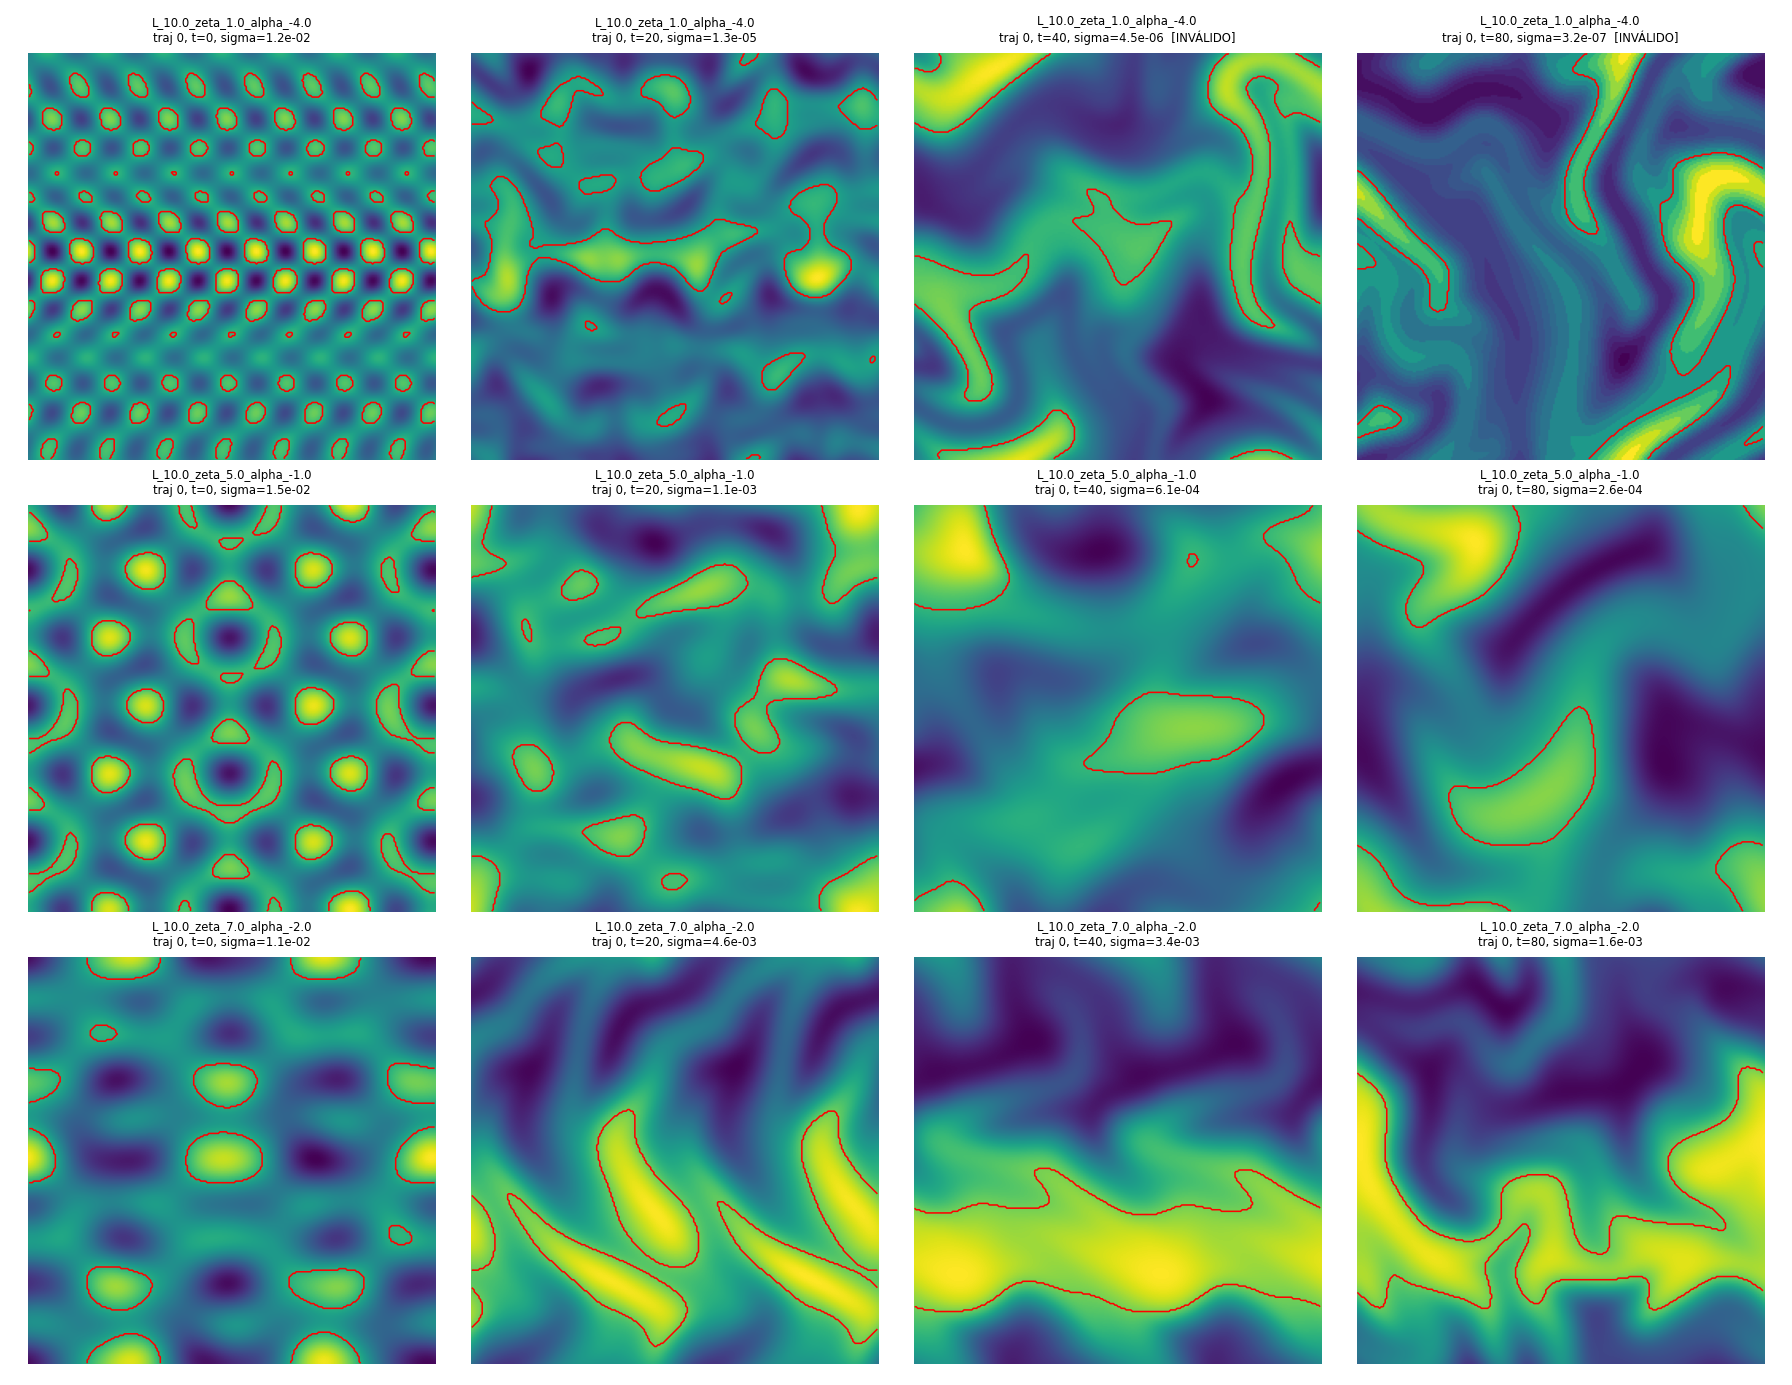
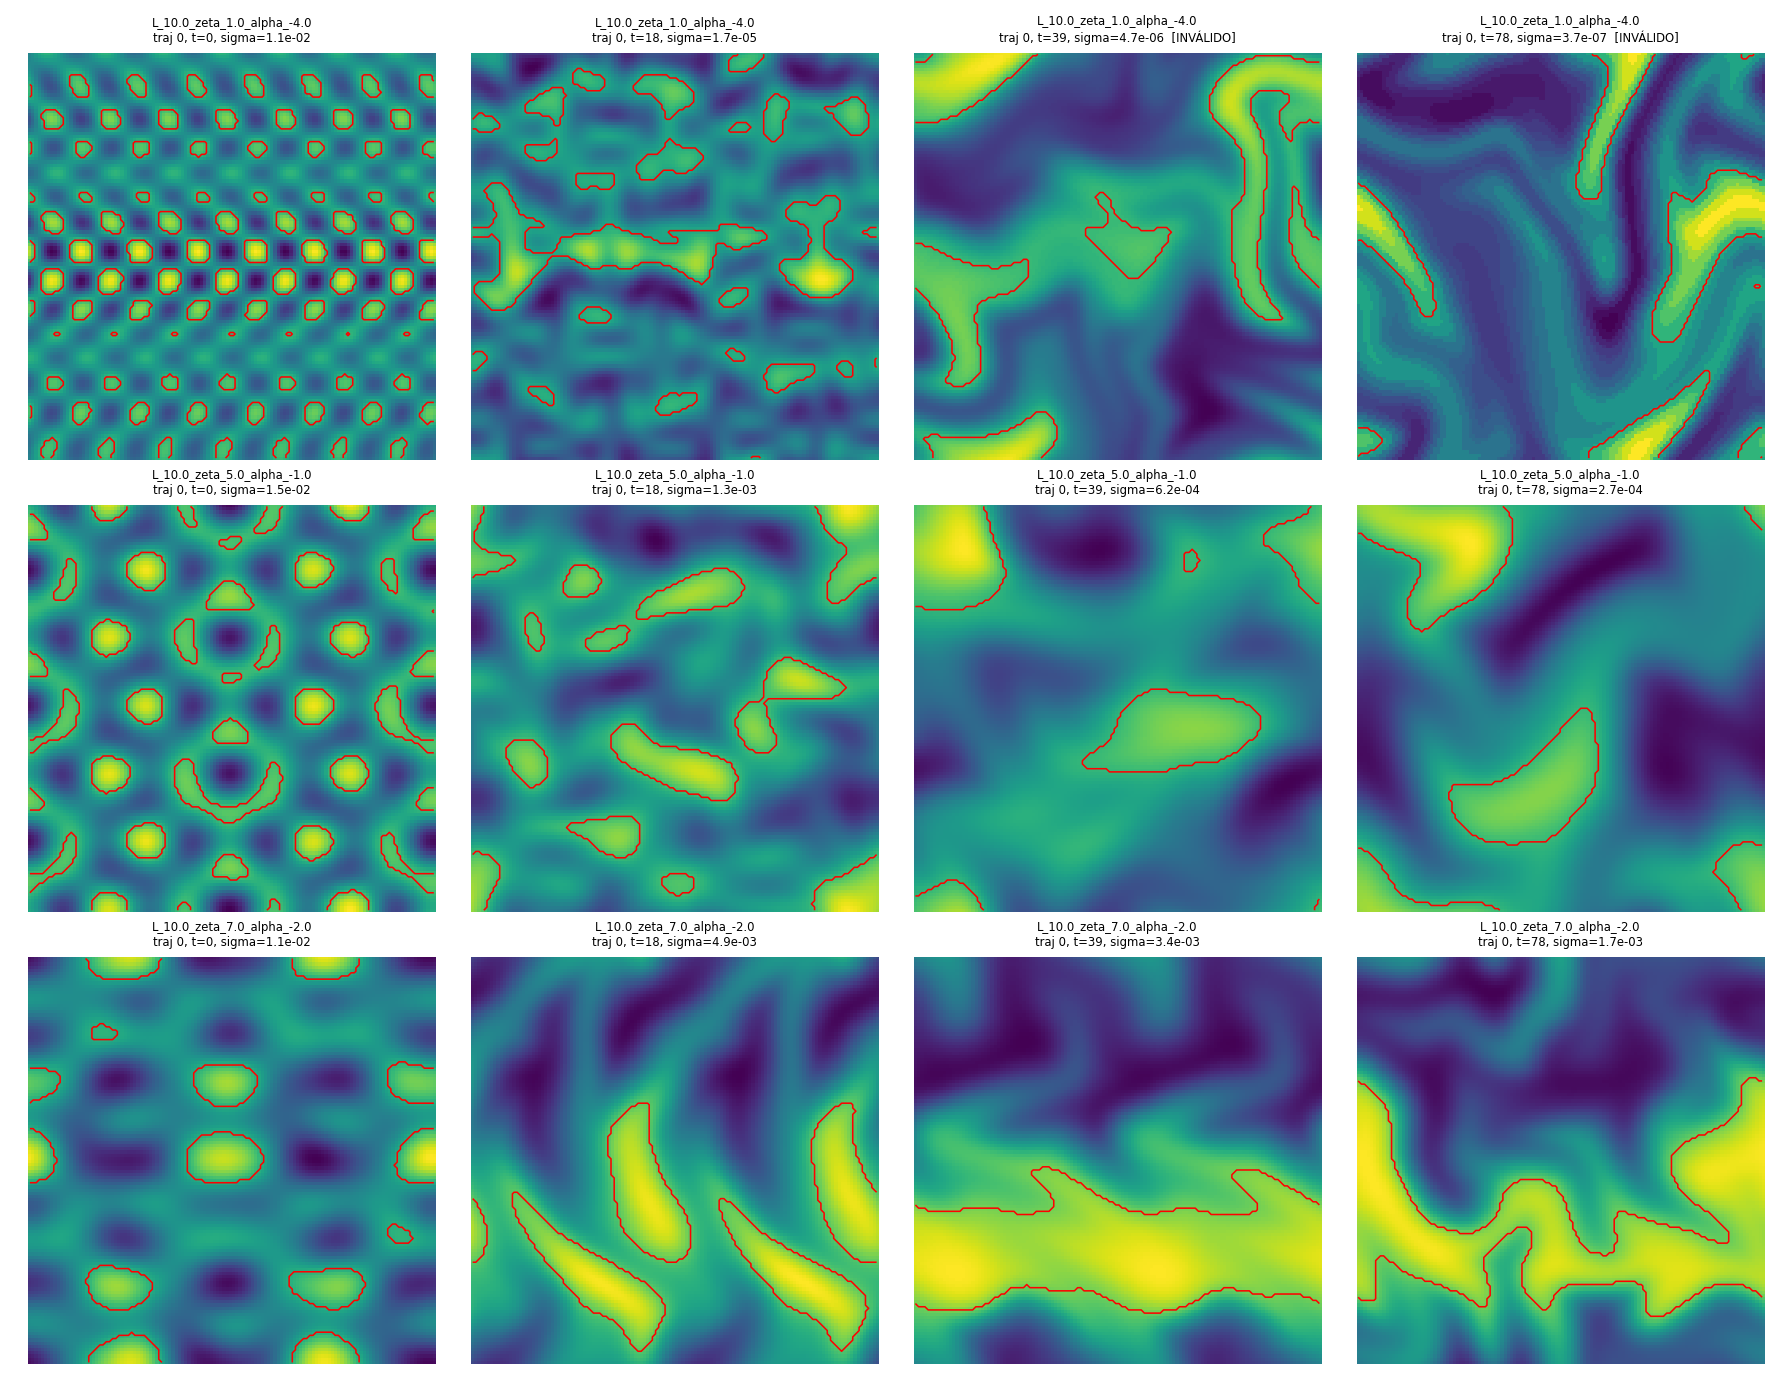
Ground Truth atualizado para o padrão em 128 px, validado contra 256 px
ground_truth.py gera as máscaras a partir da concentração reduzida para 128 px. Validação no split valid.

diff --git a/ground_truth.py b/ground_truth.py
@@ -1,125 +1,218 @@
 """
-Etapa 2b - Geração do Ground Truth do active_matter.
+Etapa 5 - Ground Truth em 128 px (versão 2), a partir dos dados processados por prepare_dataset.py.
 
-Critério (relativo por quadro):
+Critério (igual à versão 1, agora aplicado à concentração JÁ REDUZIDA para 128 x 128):
     d(x,y,t) = c(x,y,t) - 1
-    M(x,y,t) = 1  se  d(x,y,t) > k * sigma(t)      (sigma(t) = desvio padrão de d no quadro t)
-    M(x,y,t) = 0  caso contrário
+    M(x,y,t) = 1  se  d(x,y,t) > k * sigma(t)     (sigma(t) = desvio padrão de d no quadro t)
+Quadros com sigma(t) < sigma_floor são marcados como inválidos (valid = False) e devem ser
+excluídos do treino e da avaliação.
 
-Quadros com sigma(t) < sigma_floor são marcados como inválidos (valid = False): neles a
-flutuação de concentração está próxima da resolução numérica de float32 e a máscara
-não tem significado físico. Esses quadros devem ser excluídos do treino e da avaliação.
-
-A concentração é usada SOMENTE aqui. Ela não entra como canal de entrada das redes.
+Verificação opcional (--compare-raw): para os splits cujos arquivos originais de 256 x 256 existem
+localmente (normalmente o valid), gera a máscara em 256 px, reduz com nearest-neighbor e compara com a
+máscara de 128 px (IoU, Dice, concordância de pixels, razão entre sigmas, flags de validade). Isso é a
+validação quantitativa da escolha "gerar o GT depois da redução" em vez de reduzir a máscara.
 
 Uso:
-    python ground_truth.py --root ./data/raw/datasets/active_matter/data/valid \
-                           --out  ./data/ground_truth --k 1.0 --sigma-floor 1e-5
+    python ground_truth.py --splits valid --compare-raw ./data/raw/datasets/active_matter/data
+    python ground_truth.py --splits valid test train        (depois que test e train estiverem processados)
 
-Saída: <out>/<split>/<mesmo nome do arquivo>.hdf5 com
-    mask   (N, T, H, W) uint8
-    sigma  (N, T)       float32
-    valid  (N, T)       bool
-e atributos k, sigma_floor, criterion, source_file.
-Também grava <out>/<split>_gt_summary.csv e <out>/<split>_gt_validation.png.
+Saídas (em --out, padrão data/ground_truth):
+    <split>/<mesmo nome>.hdf5    mask (N,Ts,h,w) uint8, sigma (N,Ts), valid (N,Ts), time_index (Ts,)
+    <split>_gt_summary.csv       resumo por trajetória
+    <split>_gt_validation.png    figura de validação
+    <split>_gt_resolution_check.csv   (se --compare-raw) comparação com 256 px
+    ground_truth_manifest.json   parâmetros e contagens (para congelar e comparar entre computadores)
+ATENÇÃO: sobrescreve as máscaras da versão 1 (256 px) com o mesmo nome de arquivo.
 """
 import argparse
 import csv
+import json
+from datetime import datetime
 from pathlib import Path
 
 import h5py
 import matplotlib.pyplot as plt
 import numpy as np
 
+VERSION = "v2_128px"
+
 
 def make_mask(c, k, sigma_floor):
-    """c: (N, T, H, W) -> mask (N,T,H,W) uint8, sigma (N,T), valid (N,T)."""
+    """c: (N, Ts, h, w) -> mask (N,Ts,h,w) uint8, sigma (N,Ts) float32, valid (N,Ts) bool."""
     d = c.astype(np.float64) - 1.0
-    N, T = d.shape[:2]
-    sigma = d.reshape(N, T, -1).std(axis=2)                    # (N, T)
+    N, Ts = d.shape[:2]
+    sigma = d.reshape(N, Ts, -1).std(axis=2)
     mask = (d > k * sigma[:, :, None, None]).astype(np.uint8)
     valid = sigma >= sigma_floor
     return mask, sigma.astype(np.float32), valid
 
 
-def main(root, out, k, sigma_floor):
-    files = sorted(root.rglob("*.hdf5")) + sorted(root.rglob("*.h5"))
-    if not files:
-        raise FileNotFoundError(f"Nenhum HDF5 em {root}")
-    split = root.name
-    out_dir = out / split
-    out_dir.mkdir(parents=True, exist_ok=True)
+def compare_with_raw(raw_path, t_idx, factor, mask128, sigma128, valid128, k, sigma_floor):
+    """Compara a máscara de 128 px com a de 256 px reduzida por nearest-neighbor."""
+    iou, dice, agree, ratio, mism, nfr = [], [], [], [], 0, 0
+    with h5py.File(raw_path, "r") as f:
+        ds = f["t0_fields/concentration"]
+        for n in range(mask128.shape[0]):
+            c = ds[n, t_idx.tolist()]                              # (Ts, 256, 256)
+            d = c.astype(np.float64) - 1.0
+            s = d.reshape(len(t_idx), -1).std(axis=1)
+            m256 = d > k * s[:, None, None]
+            nn = m256[:, ::factor, ::factor]                       # nearest-neighbor
+            valid256 = s >= sigma_floor
+            mism += int((valid256 != valid128[n]).sum())
+            nfr += len(t_idx)
+            for t in np.where(valid256 & valid128[n])[0]:
+                g, p = mask128[n, t].astype(bool), nn[t]
+                inter, union = (g & p).sum(), (g | p).sum()
+                if union == 0:
+                    continue
+                iou.append(inter / union)
+                dice.append(2 * inter / max(g.sum() + p.sum(), 1))
+                agree.append((g == p).mean())
+                ratio.append(sigma128[n, t] / s[t])
+    return {k_: np.array(v) for k_, v in dict(iou=iou, dice=dice, agree=agree, ratio=ratio).items()}, mism, nfr
 
-    rows, examples = [], []
-    for fp in files:
-        with h5py.File(fp, "r") as f:
-            c = f["t0_fields/concentration"][...]
-            alpha, zeta, L = float(f.attrs["alpha"]), float(f.attrs["zeta"]), float(f.attrs["L"])
-        mask, sigma, valid = make_mask(c, k, sigma_floor)
-        N, T = mask.shape[:2]
 
-        with h5py.File(out_dir / fp.name, "w") as g:
-            g.create_dataset("mask", data=mask, compression="gzip", compression_opts=4)
-            g.create_dataset("sigma", data=sigma)
-            g.create_dataset("valid", data=valid)
-            g.attrs.update(k=k, sigma_floor=sigma_floor, source_file=fp.name,
-                           criterion="mask = (c - 1) > k * std_frame(c - 1)")
-
-        for n in range(N):
-            frac = mask[n].reshape(T, -1).mean(axis=1)
-            v = valid[n]
-            rows.append({
-                "file": fp.name, "traj": n, "L": L, "zeta": zeta, "alpha": alpha,
-                "frames_total": T, "frames_valid": int(v.sum()), "frames_excluded": int((~v).sum()),
-                "first_invalid_t": int(np.argmax(~v)) if (~v).any() else -1,
-                "pos_frac_mean_valid": float(frac[v].mean()) if v.any() else float("nan"),
-                "pos_frac_min_valid": float(frac[v].min()) if v.any() else float("nan"),
-                "pos_frac_max_valid": float(frac[v].max()) if v.any() else float("nan"),
-                "sigma_mean": float(sigma[n].mean()),
-            })
-            examples.append((float(sigma[n].mean()), fp.name, n, c[n] - 1.0, mask[n], valid[n]))
-
-    # ---- resumo
-    csv_path = out / f"{split}_gt_summary.csv"
-    with open(csv_path, "w", newline="") as fh:
-        w = csv.DictWriter(fh, fieldnames=list(rows[0].keys()))
-        w.writeheader(); w.writerows(rows)
-
-    tot = sum(r["frames_total"] for r in rows)
-    exc = sum(r["frames_excluded"] for r in rows)
-    pm = np.nanmean([r["pos_frac_mean_valid"] for r in rows])
-    print(f"Split '{split}': {len(files)} arquivos, {len(rows)} trajetórias, {tot} quadros")
-    print(f"Critério: d > {k} * sigma_frame ; sigma_floor = {sigma_floor:g}")
-    print(f"Quadros excluídos (sigma < floor): {exc} ({100 * exc / tot:.1f}%)")
-    n_traj_exc = sum(1 for r in rows if r["frames_excluded"] > 0)
-    print(f"Trajetórias com algum quadro excluído: {n_traj_exc} de {len(rows)}")
-    print(f"Fração positiva média (quadros válidos): {pm:.3f}")
-    print(f"Resumo salvo em {csv_path}")
-
-    # ---- figura de validação: trajetórias de menor, mediana e maior amplitude
-    examples.sort(key=lambda e: e[0])
-    picks = [examples[0], examples[len(examples) // 2], examples[-1]]
-    times = [0, 20, 40, 80]
-    fig, axs = plt.subplots(len(picks), len(times), figsize=(3.2 * len(times), 3.3 * len(picks)))
-    for i, (sm, name, n, d, m, v) in enumerate(picks):
-        for j, t in enumerate(times):
-            ax = axs[i, j]
-            ax.imshow(d[t], cmap="viridis"); ax.axis("off")
-            if m[t].any() and not m[t].all():
-                ax.contour(m[t], levels=[0.5], colors="red", linewidths=0.8)
-            tag = "" if v[t] else "  [INVÁLIDO]"
-            ax.set_title(f"{name[14:-5]}\ntraj {n}, t={t}, sigma={d[t].std():.1e}{tag}", fontsize=6)
+def validation_figure(split, picks, out_dir, proc_dir, gt_dir):
+    fig, axs = plt.subplots(len(picks), 4, figsize=(12.8, 3.3 * len(picks)))
+    for i, (name, n) in enumerate(picks):
+        with h5py.File(proc_dir / split / name, "r") as p, h5py.File(gt_dir / split / name, "r") as g:
+            Ts = p["time_index"].shape[0]
+            pos = [0, Ts // 4, Ts // 2, Ts - 1]
+            ti = p["time_index"][...]
+            for j, t in enumerate(pos):
+                d = p["concentration"][n, t].astype(np.float64) - 1.0
+                m = g["mask"][n, t]
+                v = bool(g["valid"][n, t])
+                ax = axs[i, j]
+                ax.imshow(d, cmap="viridis"); ax.axis("off")
+                if m.any() and not m.all():
+                    ax.contour(m, levels=[0.5], colors="red", linewidths=0.8)
+                tag = "" if v else "  [INVÁLIDO]"
+                ax.set_title(f"{name[14:-5]}\ntraj {n}, t={int(ti[t])}, sigma={d.std():.1e}{tag}", fontsize=6)
     fig.tight_layout()
-    fig_path = out / f"{split}_gt_validation.png"
-    fig.savefig(fig_path, dpi=140); plt.close(fig)
-    print(f"Figura de validação: {fig_path}")
+    path = out_dir / f"{split}_gt_validation.png"
+    fig.savefig(path, dpi=140); plt.close(fig)
+    return path
+
+
+def main(args):
+    out = args.out
+    manifest = {"version": VERSION, "created": datetime.now().isoformat(timespec="seconds"),
+                "criterion": "mask = (c - 1) > k * std_frame(c - 1), c = concentração reduzida para 128 px",
+                "k": args.k, "sigma_floor": args.sigma_floor, "per_split": {}}
+
+    for split in args.splits:
+        pdir = args.processed / split
+        files = sorted(pdir.glob("*.hdf5")) if pdir.exists() else []
+        if not files:
+            print(f"[{split}] nenhum arquivo processado em {pdir}, pulando")
+            continue
+        (out / split).mkdir(parents=True, exist_ok=True)
+        rows, tot = [], dict(traj=0, frames=0, valid=0, pos_px=0)
+        cmp_all = {"iou": [], "dice": [], "agree": [], "ratio": []}
+        cmp_rows, mism_tot, nfr_tot = [], 0, 0
+        do_cmp = args.compare_raw is not None and (args.compare_raw / split).exists()
+        if args.compare_raw is not None and not do_cmp:
+            print(f"[{split}] originais de 256 px não encontrados em {args.compare_raw / split}; sem comparação")
+
+        for fp in files:
+            with h5py.File(fp, "r") as p:
+                c = p["concentration"][...]
+                t_idx = p["time_index"][...]
+                factor = int(p.attrs["factor"])
+            mask, sigma, valid = make_mask(c, args.k, args.sigma_floor)
+            N, Ts = mask.shape[:2]
+            with h5py.File(out / split / fp.name, "w") as g:
+                g.create_dataset("mask", data=mask, compression="gzip", compression_opts=4)
+                g.create_dataset("sigma", data=sigma)
+                g.create_dataset("valid", data=valid)
+                g.create_dataset("time_index", data=t_idx)
+                g.attrs.update(version=VERSION, k=args.k, sigma_floor=args.sigma_floor,
+                               source_file=fp.name, criterion=manifest["criterion"])
+            for n in range(N):
+                frac = mask[n].reshape(Ts, -1).mean(axis=1)
+                v = valid[n]
+                rows.append({
+                    "file": fp.name, "traj": n, "frames_total": Ts, "frames_valid": int(v.sum()),
+                    "frames_excluded": int((~v).sum()),
+                    "first_invalid_t": int(t_idx[np.argmax(~v)]) if (~v).any() else -1,
+                    "pos_frac_mean_valid": float(frac[v].mean()) if v.any() else float("nan"),
+                    "pos_frac_min_valid": float(frac[v].min()) if v.any() else float("nan"),
+                    "pos_frac_max_valid": float(frac[v].max()) if v.any() else float("nan"),
+                    "sigma_mean": float(sigma[n].mean()),
+                })
+            tot["traj"] += N; tot["frames"] += N * Ts; tot["valid"] += int(valid.sum())
+            tot["pos_px"] += int(mask[valid].sum())
+
+            if do_cmp and (args.compare_raw / split / fp.name).exists():
+                r, mism, nfr = compare_with_raw(args.compare_raw / split / fp.name, t_idx, factor,
+                                                mask, sigma, valid, args.k, args.sigma_floor)
+                mism_tot += mism; nfr_tot += nfr
+                for key in cmp_all:
+                    cmp_all[key].append(r[key])
+                if len(r["iou"]):
+                    cmp_rows.append({"file": fp.name, "frames_compared": len(r["iou"]),
+                                     "iou_mean": r["iou"].mean(), "iou_min": r["iou"].min(),
+                                     "dice_mean": r["dice"].mean(), "pixel_agreement_mean": r["agree"].mean(),
+                                     "sigma_ratio_128_over_256_median": float(np.median(r["ratio"])),
+                                     "valid_flag_mismatches": mism})
+
+        # ---- resumo do split
+        with open(out / f"{split}_gt_summary.csv", "w", newline="", encoding="utf-8") as fh:
+            w = csv.DictWriter(fh, fieldnames=list(rows[0].keys()))
+            w.writeheader(); w.writerows(rows)
+        exc = tot["frames"] - tot["valid"]
+        pm = float(np.nanmean([r["pos_frac_mean_valid"] for r in rows]))
+        print(f"\n=== Split '{split}' ({VERSION}) ===")
+        print(f"{len(files)} arquivos, {tot['traj']} trajetórias, {tot['frames']} quadros")
+        print(f"Critério: d > {args.k} * sigma_frame ; sigma_floor = {args.sigma_floor:g}")
+        print(f"Quadros excluídos: {exc} ({100 * exc / tot['frames']:.1f}%) | "
+              f"trajetórias com algum excluído: {sum(r['frames_excluded'] > 0 for r in rows)} de {len(rows)}")
+        print(f"Fração positiva média (quadros válidos): {pm:.3f}")
+        manifest["per_split"][split] = {
+            "n_files": len(files), "n_trajectories": tot["traj"], "n_frames": tot["frames"],
+            "n_valid_frames": tot["valid"], "n_excluded_frames": exc,
+            "pos_frac_mean_valid": round(pm, 4), "positive_pixels_valid_frames": tot["pos_px"]}
+
+        # ---- comparação com 256 px
+        if cmp_rows:
+            allv = {k_: np.concatenate(v) for k_, v in cmp_all.items()}
+            with open(out / f"{split}_gt_resolution_check.csv", "w", newline="", encoding="utf-8") as fh:
+                w = csv.DictWriter(fh, fieldnames=list(cmp_rows[0].keys()))
+                w.writeheader(); w.writerows(cmp_rows)
+            res = {"frames_compared": int(len(allv["iou"])),
+                   "iou_mean": float(allv["iou"].mean()), "iou_p5": float(np.percentile(allv["iou"], 5)),
+                   "iou_min": float(allv["iou"].min()), "dice_mean": float(allv["dice"].mean()),
+                   "pixel_agreement_mean": float(allv["agree"].mean()),
+                   "sigma_ratio_median": float(np.median(allv["ratio"])),
+                   "valid_flag_mismatches": mism_tot, "frames_total_checked": nfr_tot}
+            manifest["per_split"][split]["resolution_check_vs_256_nearest"] = {k_: round(v, 4) if isinstance(v, float) else v
+                                                                                for k_, v in res.items()}
+            print("\nComparação GT 128 px (gerado após a redução) x GT 256 px reduzido por nearest-neighbor:")
+            print(f"  quadros comparados: {res['frames_compared']}")
+            print(f"  IoU médio {res['iou_mean']:.3f} | p5 {res['iou_p5']:.3f} | mínimo {res['iou_min']:.3f}")
+            print(f"  Dice médio {res['dice_mean']:.3f} | concordância de pixels {res['pixel_agreement_mean']:.4f}")
+            print(f"  razão sigma128/sigma256 (mediana): {res['sigma_ratio_median']:.3f}")
+            print(f"  divergências na flag de validade: {mism_tot} de {nfr_tot} quadros")
+
+        # ---- figura de validação: menor, mediana e maior amplitude
+        order = sorted(rows, key=lambda r: r["sigma_mean"])
+        picks = [(r["file"], r["traj"]) for r in (order[0], order[len(order) // 2], order[-1])]
+        print(f"Figura de validação: {validation_figure(split, picks, out, args.processed, out)}")
+
+    (out / "ground_truth_manifest.json").write_text(json.dumps(manifest, indent=2, ensure_ascii=False),
+                                                    encoding="utf-8")
+    print(f"\nManifesto do Ground Truth: {out / 'ground_truth_manifest.json'}")
 
 
 if __name__ == "__main__":
     ap = argparse.ArgumentParser()
-    ap.add_argument("--root", required=True, type=Path, help="pasta do split (ex.: .../data/valid)")
-    ap.add_argument("--out", default=Path("data/ground_truth"), type=Path)
-    ap.add_argument("--k", default=1.0, type=float, help="múltiplo de sigma do quadro")
-    ap.add_argument("--sigma-floor", default=1e-5, type=float)
-    a = ap.parse_args()
-    main(a.root, a.out, a.k, a.sigma_floor)
+    ap.add_argument("--processed", type=Path, default=Path("data/processed"))
+    ap.add_argument("--out", type=Path, default=Path("data/ground_truth"))
+    ap.add_argument("--splits", nargs="+", default=["valid"], choices=["train", "valid", "test"])
+    ap.add_argument("--k", type=float, default=1.0)
+    ap.add_argument("--sigma-floor", type=float, default=1e-5)
+    ap.add_argument("--compare-raw", type=Path, default=None,
+                    help="pasta com os originais de 256 px (ex.: ./data/raw/datasets/active_matter/data)")
+    main(ap.parse_args())
